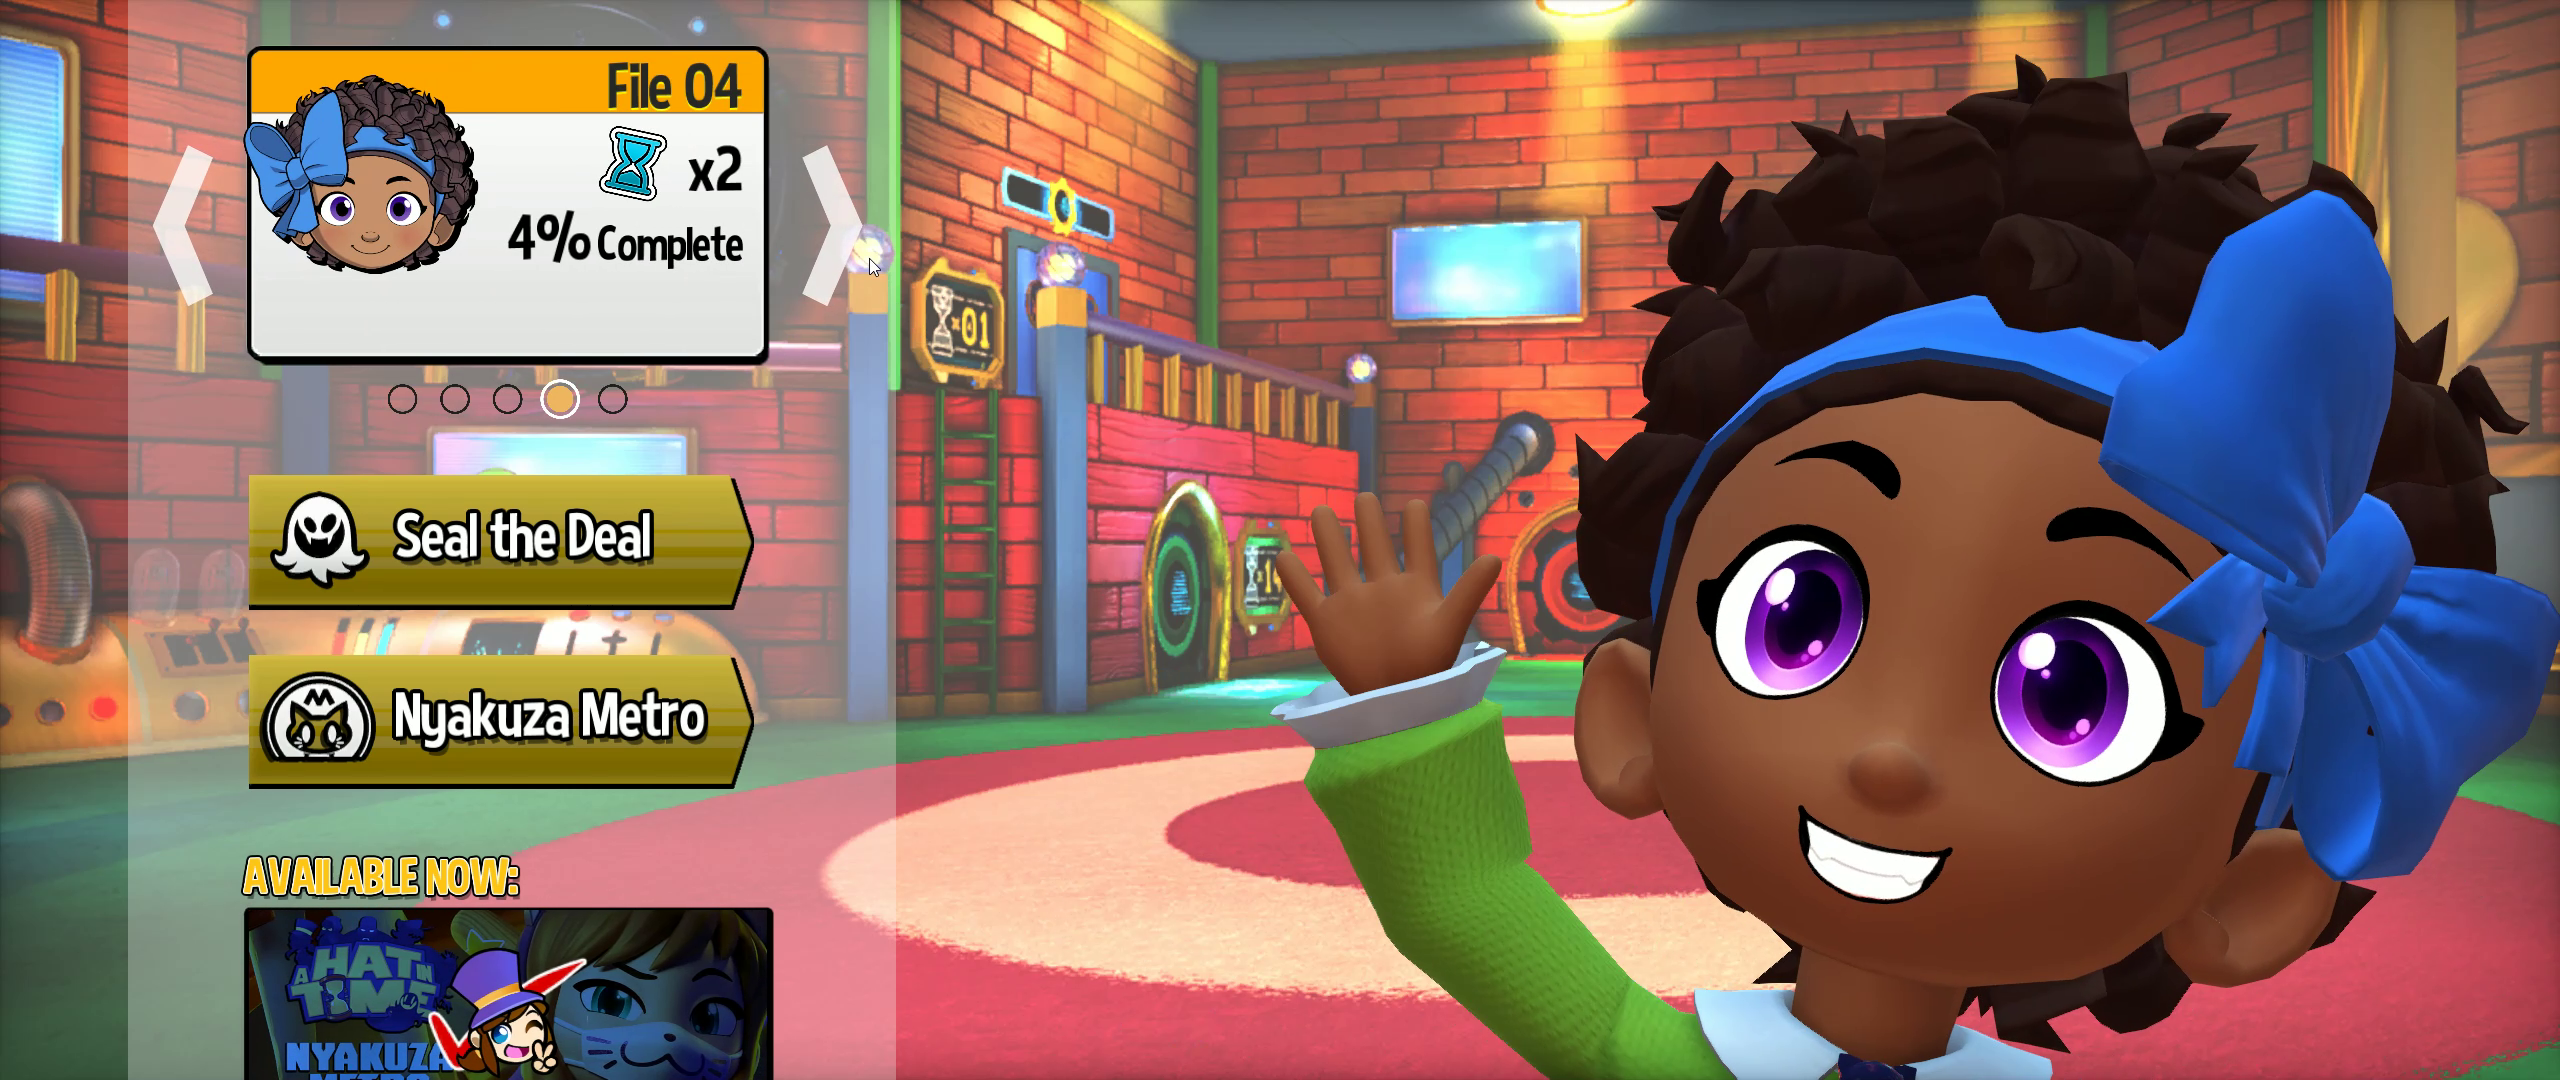
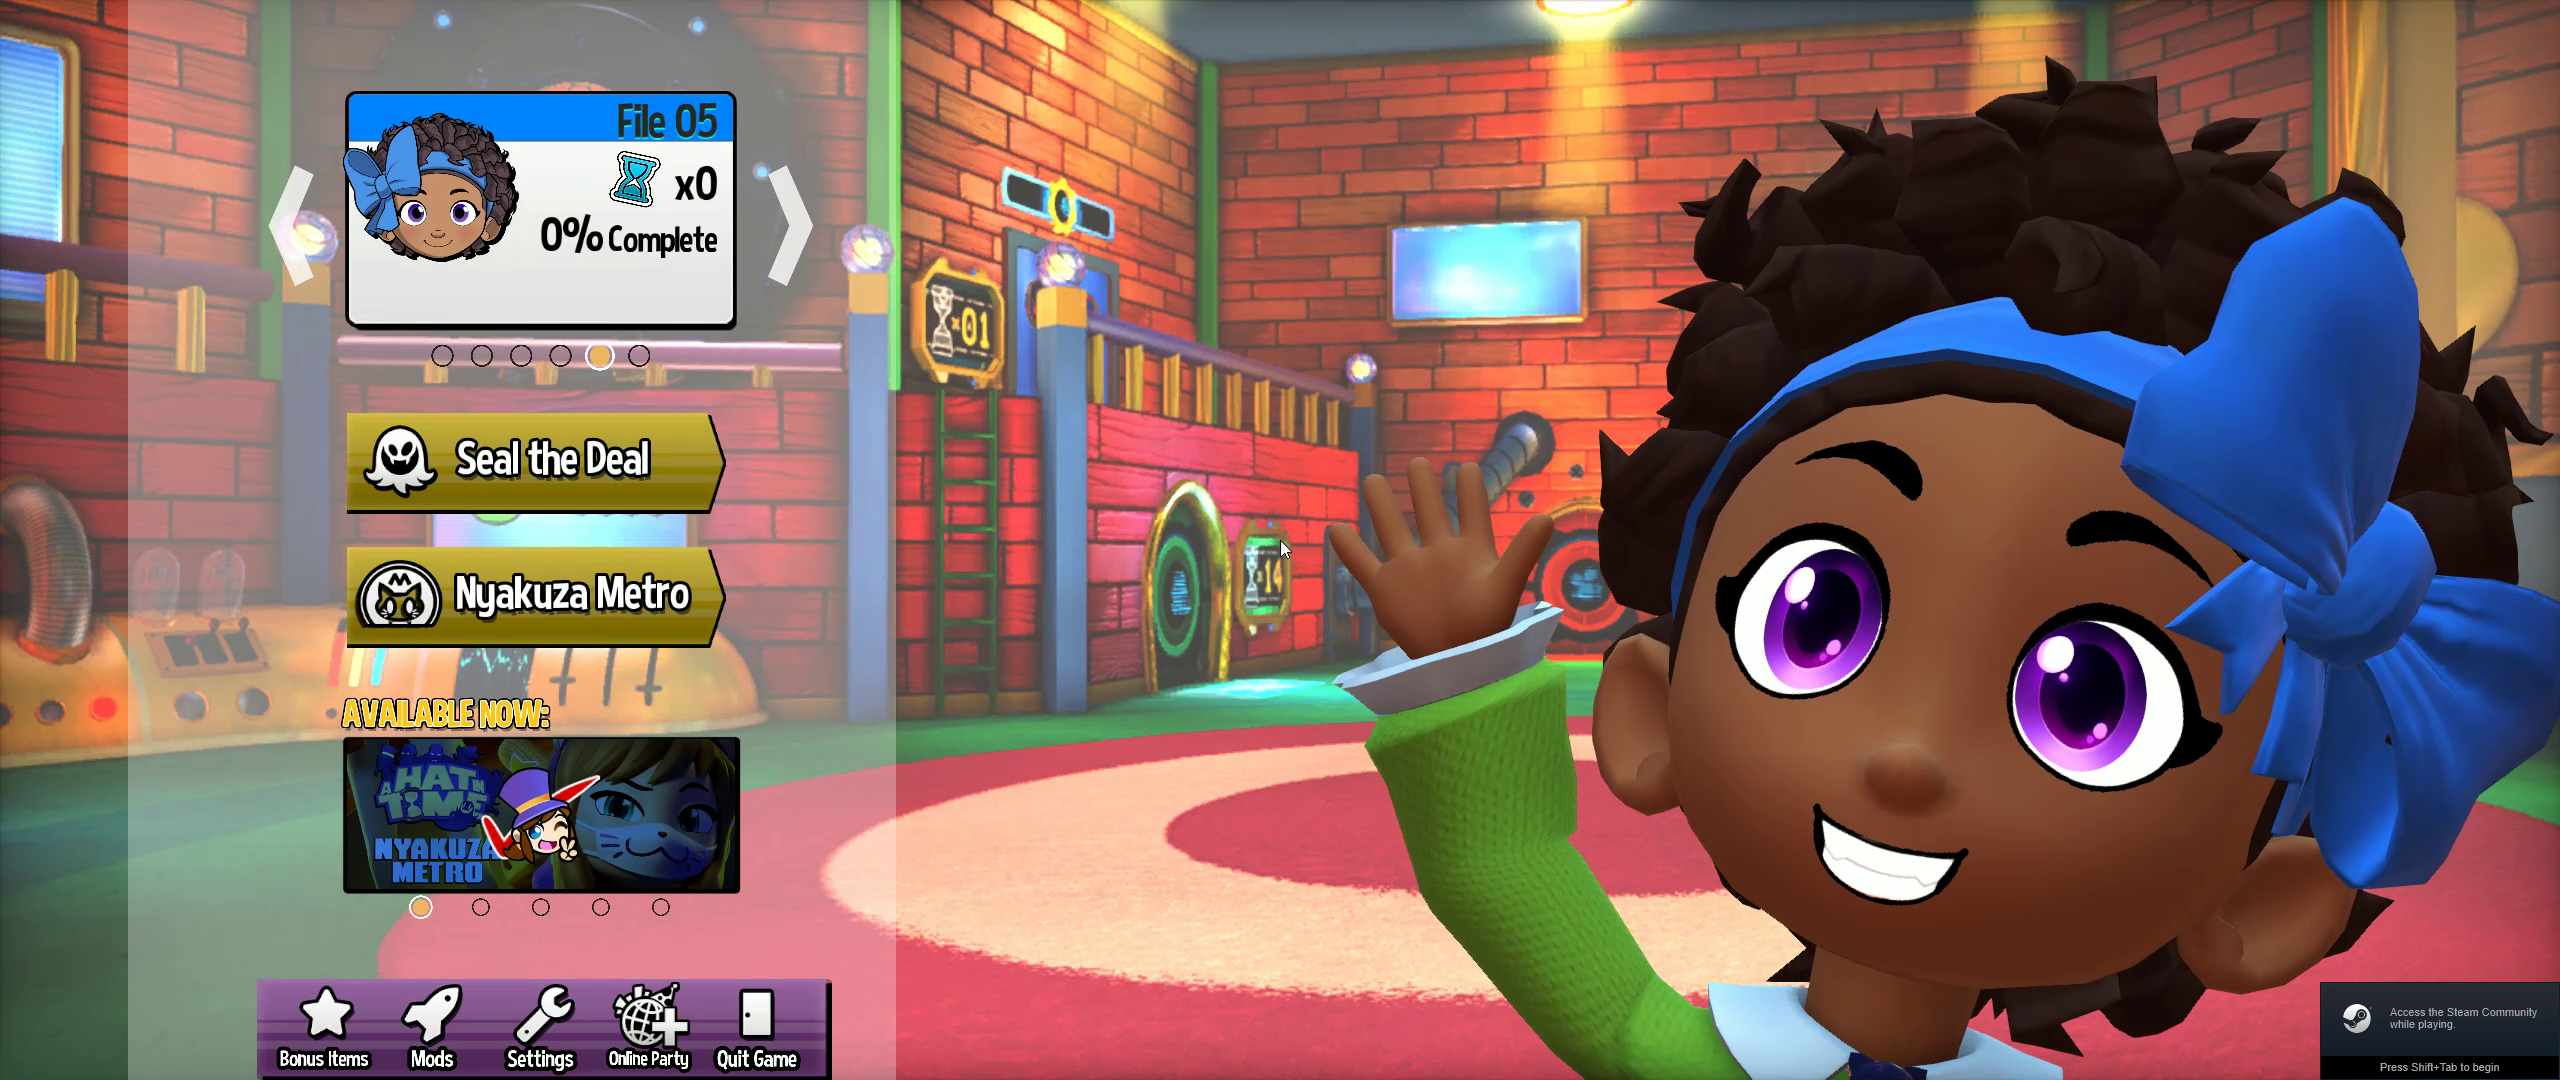
Updated main menu images to the May 19th Update

Changed region(s): [[0.5, 0.0306, 1.0, 1.0], [0.0625, 0.0306, 0.3438, 1.0], [0.75, 0.7333, 0.7812, 0.7639]]

diff --git a/README.md b/README.md
@@ -14,20 +14,20 @@ Comparison
 
 For the comparison shots, a modded exe was used for `Hor+` images.
 
-Main Menu
+Main Menu (May 19th update)
 ---
 
 16:9 - Game Default ![alt text](/images/mainmenu_widescreen_default.png "16:9 - Game Default")
 
-21:9 - Game Default (May 11th update) ![alt text](/images/mainmenu_ultrawide_default.png "21:9 - Game Default")
+21:9 - Game Default ![alt text](/images/mainmenu_ultrawide_default.png "21:9 - Game Default")
 
-21:9 - Modded EXE (May 11th update) ![alt text](/images/mainmenu_ultrawide_modded.png "21:9 - Modded EXE")
+21:9 - Modded EXE ![alt text](/images/mainmenu_ultrawide_modded.png "21:9 - Modded EXE")
 
 The first thing I want to point out is how `21:9 - Game Default` looks like a direct cropped image of `16:9 - Game Default`. The most noticeable things I can point out is BowKid's button is no longer visible and the Main Menu's UI is cut off making it impossible to access the game's settings.
 
 With `21:9 - Modded EXE` BowKid is now just as visible as she is in `16:9 - Game Default`, we can see the button now!
 
-~~The Main Menu is still cut off on the top and bottom with the modded exe. The UI is trying to scale based on `Vert-`. It's trying to maintain it's horizontal width at the cost of verticality. With this new menu being designed around being vertical, UI elements end up off-screen.~~ This was patched with the [May 15th update](https://steamdb.info/patchnotes/3827253/)
+The UI cropping was patched with the [May 15th update](https://steamdb.info/patchnotes/3827253/).
 
 The Empress' Introduction Cutscene
 ---
